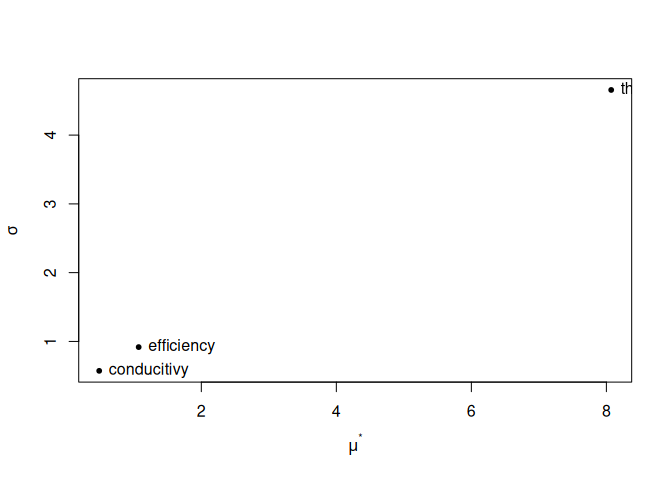
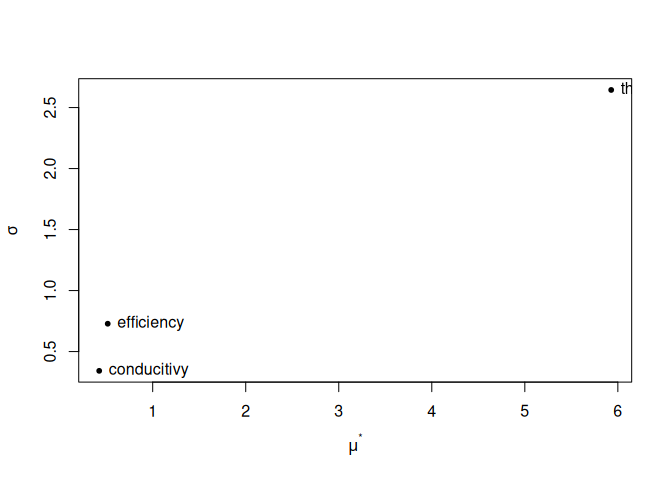
Fix `.names` order error in README.

diff --git a/README.md b/README.md
@@ -66,7 +66,7 @@ sen$param(
     ),
 
     # use `.names` to give names to each parameter
-    .names = c("thickness", "conducitivy", "efficiency"),
+    .names = c("efficiency", "thickness", "conducitivy"),
 
     # See `r` and `grid_jump` in `sensitivity::morris`
     .r = 8, .grid_jump = 1
@@ -102,38 +102,38 @@ sen$apply_measure(my_actions,
 #> EnergyPlus Path: `/usr/local/EnergyPlus-8-8-0`
 #> Applied Measure: `my_actions`
 #> Parametric Models [32]: 
-#> [01]: `1_effic(0.1)_thick(0.045)_condu(0.5)`
-#> [02]: `2_effic(0.325)_thick(0.045)_condu(0.5)`
-#> [03]: `3_effic(0.325)_thick(0.045)_condu(0.4)`
-#> [04]: `4_effic(0.325)_thick(0.0625)_condu(0.4)`
-#> [05]: `5_effic(1)_thick(0.0625)_condu(0.5)`
-#> [06]: `6_effic(1)_thick(0.045)_condu(0.5)`
-#> [07]: `7_effic(1)_thick(0.045)_condu(0.6)`
-#> [08]: `8_effic(0.775)_thick(0.045)_condu(0.6)`
-#> [09]: `9_effic(0.325)_thick(0.045)_condu(0.6)`
-#> [10]: `10_effic(0.55)_thick(0.045)_condu(0.6)`
-#> [11]: `11_effic(0.55)_thick(0.045)_condu(0.5)`
-#> [12]: `12_effic(0.55)_thick(0.0625)_condu(0.5)`
-#> [13]: `13_effic(0.325)_thick(0.01)_condu(0.2)`
-#> [14]: `14_effic(0.325)_thick(0.0275)_condu(0.2)`
-#> [15]: `15_effic(0.55)_thick(0.0275)_condu(0.2)`
-#> [16]: `16_effic(0.55)_thick(0.0275)_condu(0.1)`
-#> [17]: `17_effic(0.55)_thick(0.01)_condu(0.6)`
-#> [18]: `18_effic(0.55)_thick(0.0275)_condu(0.6)`
-#> [19]: `19_effic(0.325)_thick(0.0275)_condu(0.6)`
-#> [20]: `20_effic(0.325)_thick(0.0275)_condu(0.5)`
-#> [21]: `21_effic(0.1)_thick(0.08)_condu(0.2)`
-#> [22]: `22_effic(0.1)_thick(0.08)_condu(0.1)`
-#> [23]: `23_effic(0.1)_thick(0.0625)_condu(0.1)`
-#> [24]: `24_effic(0.325)_thick(0.0625)_condu(0.1)`
-#> [25]: `25_effic(0.1)_thick(0.01)_condu(0.4)`
-#> [26]: `26_effic(0.1)_thick(0.01)_condu(0.3)`
-#> [27]: `27_effic(0.1)_thick(0.0275)_condu(0.3)`
-#> [28]: `28_effic(0.325)_thick(0.0275)_condu(0.3)`
-#> [29]: `29_effic(0.1)_thick(0.0275)_condu(0.2)`
-#> [30]: `30_effic(0.1)_thick(0.045)_condu(0.2)`
-#> [31]: `31_effic(0.1)_thick(0.045)_condu(0.3)`
-#> [32]: `32_effic(0.325)_thick(0.045)_condu(0.3)`
+#> [01]: `1_effic(0.775)_thick(0.08)_condu(0.4)`
+#> [02]: `2_effic(0.55)_thick(0.08)_condu(0.4)`
+#> [03]: `3_effic(0.55)_thick(0.08)_condu(0.3)`
+#> [04]: `4_effic(0.55)_thick(0.0625)_condu(0.3)`
+#> [05]: `5_effic(0.55)_thick(0.0275)_condu(0.4)`
+#> [06]: `6_effic(0.775)_thick(0.0275)_condu(0.4)`
+#> [07]: `7_effic(0.775)_thick(0.045)_condu(0.4)`
+#> [08]: `8_effic(0.775)_thick(0.045)_condu(0.5)`
+#> [09]: `9_effic(0.1)_thick(0.0625)_condu(0.5)`
+#> [10]: `10_effic(0.1)_thick(0.045)_condu(0.5)`
+#> [11]: `11_effic(0.1)_thick(0.045)_condu(0.4)`
+#> [12]: `12_effic(0.325)_thick(0.045)_condu(0.4)`
+#> [13]: `13_effic(0.55)_thick(0.0275)_condu(0.3)`
+#> [14]: `14_effic(0.55)_thick(0.0275)_condu(0.2)`
+#> [15]: `15_effic(0.325)_thick(0.0275)_condu(0.2)`
+#> [16]: `16_effic(0.325)_thick(0.045)_condu(0.2)`
+#> [17]: `17_effic(0.325)_thick(0.045)_condu(0.3)`
+#> [18]: `18_effic(0.325)_thick(0.0625)_condu(0.3)`
+#> [19]: `19_effic(0.1)_thick(0.0625)_condu(0.3)`
+#> [20]: `20_effic(0.1)_thick(0.0625)_condu(0.2)`
+#> [21]: `21_effic(0.775)_thick(0.0275)_condu(0.1)`
+#> [22]: `22_effic(0.55)_thick(0.0275)_condu(0.1)`
+#> [23]: `23_effic(0.55)_thick(0.0275)_condu(0.2)`
+#> [24]: `24_effic(0.55)_thick(0.045)_condu(0.2)`
+#> [25]: `25_effic(0.775)_thick(0.08)_condu(0.5)`
+#> [26]: `26_effic(0.775)_thick(0.0625)_condu(0.5)`
+#> [27]: `27_effic(0.775)_thick(0.0625)_condu(0.6)`
+#> [28]: `28_effic(1)_thick(0.0625)_condu(0.6)`
+#> [29]: `29_effic(0.775)_thick(0.08)_condu(0.6)`
+#> [30]: `30_effic(0.775)_thick(0.0625)_condu(0.6)`
+#> [31]: `31_effic(0.55)_thick(0.0625)_condu(0.6)`
+#> [32]: `32_effic(0.55)_thick(0.0625)_condu(0.5)`
 #> << Job has not been run before >>
 ```
 
@@ -142,38 +142,38 @@ Get samples
 ``` r
 sen$samples()
 #>     case efficiency thickness conducitivy
-#>  1:    1      0.100    0.0450         0.5
-#>  2:    2      0.325    0.0450         0.5
-#>  3:    3      0.325    0.0450         0.4
-#>  4:    4      0.325    0.0625         0.4
-#>  5:    5      1.000    0.0625         0.5
-#>  6:    6      1.000    0.0450         0.5
-#>  7:    7      1.000    0.0450         0.6
-#>  8:    8      0.775    0.0450         0.6
-#>  9:    9      0.325    0.0450         0.6
-#> 10:   10      0.550    0.0450         0.6
-#> 11:   11      0.550    0.0450         0.5
-#> 12:   12      0.550    0.0625         0.5
-#> 13:   13      0.325    0.0100         0.2
-#> 14:   14      0.325    0.0275         0.2
-#> 15:   15      0.550    0.0275         0.2
-#> 16:   16      0.550    0.0275         0.1
-#> 17:   17      0.550    0.0100         0.6
-#> 18:   18      0.550    0.0275         0.6
-#> 19:   19      0.325    0.0275         0.6
-#> 20:   20      0.325    0.0275         0.5
-#> 21:   21      0.100    0.0800         0.2
-#> 22:   22      0.100    0.0800         0.1
-#> 23:   23      0.100    0.0625         0.1
-#> 24:   24      0.325    0.0625         0.1
-#> 25:   25      0.100    0.0100         0.4
-#> 26:   26      0.100    0.0100         0.3
-#> 27:   27      0.100    0.0275         0.3
-#> 28:   28      0.325    0.0275         0.3
-#> 29:   29      0.100    0.0275         0.2
-#> 30:   30      0.100    0.0450         0.2
-#> 31:   31      0.100    0.0450         0.3
-#> 32:   32      0.325    0.0450         0.3
+#>  1:    1      0.775    0.0800         0.4
+#>  2:    2      0.550    0.0800         0.4
+#>  3:    3      0.550    0.0800         0.3
+#>  4:    4      0.550    0.0625         0.3
+#>  5:    5      0.550    0.0275         0.4
+#>  6:    6      0.775    0.0275         0.4
+#>  7:    7      0.775    0.0450         0.4
+#>  8:    8      0.775    0.0450         0.5
+#>  9:    9      0.100    0.0625         0.5
+#> 10:   10      0.100    0.0450         0.5
+#> 11:   11      0.100    0.0450         0.4
+#> 12:   12      0.325    0.0450         0.4
+#> 13:   13      0.550    0.0275         0.3
+#> 14:   14      0.550    0.0275         0.2
+#> 15:   15      0.325    0.0275         0.2
+#> 16:   16      0.325    0.0450         0.2
+#> 17:   17      0.325    0.0450         0.3
+#> 18:   18      0.325    0.0625         0.3
+#> 19:   19      0.100    0.0625         0.3
+#> 20:   20      0.100    0.0625         0.2
+#> 21:   21      0.775    0.0275         0.1
+#> 22:   22      0.550    0.0275         0.1
+#> 23:   23      0.550    0.0275         0.2
+#> 24:   24      0.550    0.0450         0.2
+#> 25:   25      0.775    0.0800         0.5
+#> 26:   26      0.775    0.0625         0.5
+#> 27:   27      0.775    0.0625         0.6
+#> 28:   28      1.000    0.0625         0.6
+#> 29:   29      0.775    0.0800         0.6
+#> 30:   30      0.775    0.0625         0.6
+#> 31:   31      0.550    0.0625         0.6
+#> 32:   32      0.550    0.0625         0.5
 #>     case efficiency thickness conducitivy
 ```
 
@@ -182,63 +182,65 @@ Run simulations and calculate statistic indicators
 ``` r
 # run simulations in temporary directory
 sen$run(dir = tempdir())
-#> 01|RUNNING    --> [IDF]`1_effic(0.1)_thick(0.045)_condu(0.5).idf` + [E...
-#> 02|RUNNING    --> [IDF]`2_effic(0.325)_thick(0.045)_condu(0.5).idf` + ...
-#> 03|RUNNING    --> [IDF]`3_effic(0.325)_thick(0.045)_condu(0.4).idf` + ...
-#> 04|RUNNING    --> [IDF]`4_effic(0.325)_thick(0.0625)_condu(0.4).idf` +...
-#> 05|RUNNING    --> [IDF]`5_effic(1)_thick(0.0625)_condu(0.5).idf` + [EP...
-#> 06|RUNNING    --> [IDF]`6_effic(1)_thick(0.045)_condu(0.5).idf` + [EPW...
-#> 07|RUNNING    --> [IDF]`7_effic(1)_thick(0.045)_condu(0.6).idf` + [EPW...
-#> 08|RUNNING    --> [IDF]`8_effic(0.775)_thick(0.045)_condu(0.6).idf` + ...
-#> 01|COMPLETED  --> [IDF]`1_effic(0.1)_thick(0.045)_condu(0.5).idf` + [E...
-#> 09|RUNNING    --> [IDF]`9_effic(0.325)_thick(0.045)_condu(0.6).idf` + ...
-#> 02|COMPLETED  --> [IDF]`2_effic(0.325)_thick(0.045)_condu(0.5).idf` + ...
-#> 10|RUNNING    --> [IDF]`10_effic(0.55)_thick(0.045)_condu(0.6).idf` + ...
-#> 03|COMPLETED  --> [IDF]`3_effic(0.325)_thick(0.045)_condu(0.4).idf` + ...
-#> 11|RUNNING    --> [IDF]`11_effic(0.55)_thick(0.045)_condu(0.5).idf` + ...
-#> 12|RUNNING    --> [IDF]`12_effic(0.55)_thick(0.0625)_condu(0.5).idf` +...
-#> 06|COMPLETED  --> [IDF]`6_effic(1)_thick(0.045)_condu(0.5).idf` + [EPW...
-#> 13|RUNNING    --> [IDF]`13_effic(0.325)_thick(0.01)_condu(0.2).idf` + ...
-#> 07|COMPLETED  --> [IDF]`7_effic(1)_thick(0.045)_condu(0.6).idf` + [EPW...
-#> 14|RUNNING    --> [IDF]`14_effic(0.325)_thick(0.0275)_condu(0.2).idf` ...
-#> 08|COMPLETED  --> [IDF]`8_effic(0.775)_thick(0.045)_condu(0.6).idf` + ...
-#> 15|RUNNING    --> [IDF]`15_effic(0.55)_thick(0.0275)_condu(0.2).idf` +...
-#> 16|RUNNING    --> [IDF]`16_effic(0.55)_thick(0.0275)_condu(0.1).idf` +...
-#> 09|COMPLETED  --> [IDF]`9_effic(0.325)_thick(0.045)_condu(0.6).idf` + ...
-#> 17|RUNNING    --> [IDF]`17_effic(0.55)_thick(0.01)_condu(0.6).idf` + [...
-#> 10|COMPLETED  --> [IDF]`10_effic(0.55)_thick(0.045)_condu(0.6).idf` + ...
-#> 18|RUNNING    --> [IDF]`18_effic(0.55)_thick(0.0275)_condu(0.6).idf` +...
-#> 11|COMPLETED  --> [IDF]`11_effic(0.55)_thick(0.045)_condu(0.5).idf` + ...
-#> 19|RUNNING    --> [IDF]`19_effic(0.325)_thick(0.0275)_condu(0.6).idf` ...
-#> 20|RUNNING    --> [IDF]`20_effic(0.325)_thick(0.0275)_condu(0.5).idf` ...
-#> 14|COMPLETED  --> [IDF]`14_effic(0.325)_thick(0.0275)_condu(0.2).idf` ...
-#> 21|RUNNING    --> [IDF]`21_effic(0.1)_thick(0.08)_condu(0.2).idf` + [E...
-#> 13|COMPLETED  --> [IDF]`13_effic(0.325)_thick(0.01)_condu(0.2).idf` + ...
-#> 22|RUNNING    --> [IDF]`22_effic(0.1)_thick(0.08)_condu(0.1).idf` + [E...
-#> 16|COMPLETED  --> [IDF]`16_effic(0.55)_thick(0.0275)_condu(0.1).idf` +...
-#> 23|RUNNING    --> [IDF]`23_effic(0.1)_thick(0.0625)_condu(0.1).idf` + ...
-#> 24|RUNNING    --> [IDF]`24_effic(0.325)_thick(0.0625)_condu(0.1).idf` ...
-#> 17|COMPLETED  --> [IDF]`17_effic(0.55)_thick(0.01)_condu(0.6).idf` + [...
-#> 25|RUNNING    --> [IDF]`25_effic(0.1)_thick(0.01)_condu(0.4).idf` + [E...
-#> 18|COMPLETED  --> [IDF]`18_effic(0.55)_thick(0.0275)_condu(0.6).idf` +...
-#> 26|RUNNING    --> [IDF]`26_effic(0.1)_thick(0.01)_condu(0.3).idf` + [E...
-#> 20|COMPLETED  --> [IDF]`20_effic(0.325)_thick(0.0275)_condu(0.5).idf` ...
-#> 27|RUNNING    --> [IDF]`27_effic(0.1)_thick(0.0275)_condu(0.3).idf` + ...
-#> 28|RUNNING    --> [IDF]`28_effic(0.325)_thick(0.0275)_condu(0.3).idf` ...
-#> 22|COMPLETED  --> [IDF]`22_effic(0.1)_thick(0.08)_condu(0.1).idf` + [E...
-#> 29|RUNNING    --> [IDF]`29_effic(0.1)_thick(0.0275)_condu(0.2).idf` + ...
-#> 23|COMPLETED  --> [IDF]`23_effic(0.1)_thick(0.0625)_condu(0.1).idf` + ...
-#> 30|RUNNING    --> [IDF]`30_effic(0.1)_thick(0.045)_condu(0.2).idf` + [...
-#> 24|COMPLETED  --> [IDF]`24_effic(0.325)_thick(0.0625)_condu(0.1).idf` ...
-#> 31|RUNNING    --> [IDF]`31_effic(0.1)_thick(0.045)_condu(0.3).idf` + [...
-#> 32|RUNNING    --> [IDF]`32_effic(0.325)_thick(0.045)_condu(0.3).idf` +...
-#> 25|COMPLETED  --> [IDF]`25_effic(0.1)_thick(0.01)_condu(0.4).idf` + [E...
-#> 26|COMPLETED  --> [IDF]`26_effic(0.1)_thick(0.01)_condu(0.3).idf` + [E...
-#> 28|COMPLETED  --> [IDF]`28_effic(0.325)_thick(0.0275)_condu(0.3).idf` ...
-#> 29|COMPLETED  --> [IDF]`29_effic(0.1)_thick(0.0275)_condu(0.2).idf` + ...
-#> 30|COMPLETED  --> [IDF]`30_effic(0.1)_thick(0.045)_condu(0.2).idf` + [...
-#> 31|COMPLETED  --> [IDF]`31_effic(0.1)_thick(0.045)_condu(0.3).idf` + [...
-#> 32|COMPLETED  --> [IDF]`32_effic(0.325)_thick(0.045)_condu(0.3).idf` +...
+#> 01|RUNNING    --> [IDF]`1_effic(0.775)_thick(0.08)_condu(0.4).idf` + [...
+#> 02|RUNNING    --> [IDF]`2_effic(0.55)_thick(0.08)_condu(0.4).idf` + [E...
+#> 03|RUNNING    --> [IDF]`3_effic(0.55)_thick(0.08)_condu(0.3).idf` + [E...
+#> 04|RUNNING    --> [IDF]`4_effic(0.55)_thick(0.0625)_condu(0.3).idf` + ...
+#> 05|RUNNING    --> [IDF]`5_effic(0.55)_thick(0.0275)_condu(0.4).idf` + ...
+#> 06|RUNNING    --> [IDF]`6_effic(0.775)_thick(0.0275)_condu(0.4).idf` +...
+#> 07|RUNNING    --> [IDF]`7_effic(0.775)_thick(0.045)_condu(0.4).idf` + ...
+#> 08|RUNNING    --> [IDF]`8_effic(0.775)_thick(0.045)_condu(0.5).idf` + ...
+#> 01|COMPLETED  --> [IDF]`1_effic(0.775)_thick(0.08)_condu(0.4).idf` + [...
+#> 09|RUNNING    --> [IDF]`9_effic(0.1)_thick(0.0625)_condu(0.5).idf` + [...
+#> 02|COMPLETED  --> [IDF]`2_effic(0.55)_thick(0.08)_condu(0.4).idf` + [E...
+#> 10|RUNNING    --> [IDF]`10_effic(0.1)_thick(0.045)_condu(0.5).idf` + [...
+#> 03|COMPLETED  --> [IDF]`3_effic(0.55)_thick(0.08)_condu(0.3).idf` + [E...
+#> 11|RUNNING    --> [IDF]`11_effic(0.1)_thick(0.045)_condu(0.4).idf` + [...
+#> 06|COMPLETED  --> [IDF]`6_effic(0.775)_thick(0.0275)_condu(0.4).idf` +...
+#> 12|RUNNING    --> [IDF]`12_effic(0.325)_thick(0.045)_condu(0.4).idf` +...
+#> 07|COMPLETED  --> [IDF]`7_effic(0.775)_thick(0.045)_condu(0.4).idf` + ...
+#> 13|RUNNING    --> [IDF]`13_effic(0.55)_thick(0.0275)_condu(0.3).idf` +...
+#> 14|RUNNING    --> [IDF]`14_effic(0.55)_thick(0.0275)_condu(0.2).idf` +...
+#> 08|COMPLETED  --> [IDF]`8_effic(0.775)_thick(0.045)_condu(0.5).idf` + ...
+#> 15|RUNNING    --> [IDF]`15_effic(0.325)_thick(0.0275)_condu(0.2).idf` ...
+#> 16|RUNNING    --> [IDF]`16_effic(0.325)_thick(0.045)_condu(0.2).idf` +...
+#> 09|COMPLETED  --> [IDF]`9_effic(0.1)_thick(0.0625)_condu(0.5).idf` + [...
+#> 17|RUNNING    --> [IDF]`17_effic(0.325)_thick(0.045)_condu(0.3).idf` +...
+#> 10|COMPLETED  --> [IDF]`10_effic(0.1)_thick(0.045)_condu(0.5).idf` + [...
+#> 18|RUNNING    --> [IDF]`18_effic(0.325)_thick(0.0625)_condu(0.3).idf` ...
+#> 12|COMPLETED  --> [IDF]`12_effic(0.325)_thick(0.045)_condu(0.4).idf` +...
+#> 19|RUNNING    --> [IDF]`19_effic(0.1)_thick(0.0625)_condu(0.3).idf` + ...
+#> 20|RUNNING    --> [IDF]`20_effic(0.1)_thick(0.0625)_condu(0.2).idf` + ...
+#> 13|COMPLETED  --> [IDF]`13_effic(0.55)_thick(0.0275)_condu(0.3).idf` +...
+#> 21|RUNNING    --> [IDF]`21_effic(0.775)_thick(0.0275)_condu(0.1).idf` ...
+#> 15|COMPLETED  --> [IDF]`15_effic(0.325)_thick(0.0275)_condu(0.2).idf` ...
+#> 22|RUNNING    --> [IDF]`22_effic(0.55)_thick(0.0275)_condu(0.1).idf` +...
+#> 16|COMPLETED  --> [IDF]`16_effic(0.325)_thick(0.045)_condu(0.2).idf` +...
+#> 23|RUNNING    --> [IDF]`23_effic(0.55)_thick(0.0275)_condu(0.2).idf` +...
+#> 24|RUNNING    --> [IDF]`24_effic(0.55)_thick(0.045)_condu(0.2).idf` + ...
+#> 17|COMPLETED  --> [IDF]`17_effic(0.325)_thick(0.045)_condu(0.3).idf` +...
+#> 25|RUNNING    --> [IDF]`25_effic(0.775)_thick(0.08)_condu(0.5).idf` + ...
+#> 18|COMPLETED  --> [IDF]`18_effic(0.325)_thick(0.0625)_condu(0.3).idf` ...
+#> 26|RUNNING    --> [IDF]`26_effic(0.775)_thick(0.0625)_condu(0.5).idf` ...
+#> 19|COMPLETED  --> [IDF]`19_effic(0.1)_thick(0.0625)_condu(0.3).idf` + ...
+#> 27|RUNNING    --> [IDF]`27_effic(0.775)_thick(0.0625)_condu(0.6).idf` ...
+#> 20|COMPLETED  --> [IDF]`20_effic(0.1)_thick(0.0625)_condu(0.2).idf` + ...
+#> 28|RUNNING    --> [IDF]`28_effic(1)_thick(0.0625)_condu(0.6).idf` + [E...
+#> 22|COMPLETED  --> [IDF]`22_effic(0.55)_thick(0.0275)_condu(0.1).idf` +...
+#> 29|RUNNING    --> [IDF]`29_effic(0.775)_thick(0.08)_condu(0.6).idf` + ...
+#> 23|COMPLETED  --> [IDF]`23_effic(0.55)_thick(0.0275)_condu(0.2).idf` +...
+#> 30|RUNNING    --> [IDF]`30_effic(0.775)_thick(0.0625)_condu(0.6).idf` ...
+#> 24|COMPLETED  --> [IDF]`24_effic(0.55)_thick(0.045)_condu(0.2).idf` + ...
+#> 31|RUNNING    --> [IDF]`31_effic(0.55)_thick(0.0625)_condu(0.6).idf` +...
+#> 25|COMPLETED  --> [IDF]`25_effic(0.775)_thick(0.08)_condu(0.5).idf` + ...
+#> 32|RUNNING    --> [IDF]`32_effic(0.55)_thick(0.0625)_condu(0.5).idf` +...
+#> 26|COMPLETED  --> [IDF]`26_effic(0.775)_thick(0.0625)_condu(0.5).idf` ...
+#> 27|COMPLETED  --> [IDF]`27_effic(0.775)_thick(0.0625)_condu(0.6).idf` ...
+#> 28|COMPLETED  --> [IDF]`28_effic(1)_thick(0.0625)_condu(0.6).idf` + [E...
+#> 29|COMPLETED  --> [IDF]`29_effic(0.775)_thick(0.08)_condu(0.6).idf` + ...
+#> 30|COMPLETED  --> [IDF]`30_effic(0.775)_thick(0.0625)_condu(0.6).idf` ...
+#> 31|COMPLETED  --> [IDF]`31_effic(0.55)_thick(0.0625)_condu(0.6).idf` +...
+#> 32|COMPLETED  --> [IDF]`32_effic(0.55)_thick(0.0625)_condu(0.5).idf` +...
 #> ── EnergPlus Parametric Job ───────────────────────────────────────────────
 #> Seed Model: `/usr/local/EnergyPlus-8-8-0/ExampleFiles/5Zone_Transforme...
 #> Weather: `/usr/local/EnergyPlus-8-8-0/WeatherData/USA_CA_San.Francisco...
@@ -246,39 +248,39 @@ sen$run(dir = tempdir())
 #> EnergyPlus Path: `/usr/local/EnergyPlus-8-8-0`
 #> Applied Measure: `my_actions`
 #> Parametric Models [32]: 
-#> [01]: `1_effic(0.1)_thick(0.045)_condu(0.5)`     <-- SUCCEEDED
-#> [02]: `2_effic(0.325)_thick(0.045)_condu(0.5)`   <-- SUCCEEDED
-#> [03]: `3_effic(0.325)_thick(0.045)_condu(0.4)`   <-- SUCCEEDED
-#> [04]: `4_effic(0.325)_thick(0.0625)_condu(0.4)`  <-- SUCCEEDED
-#> [05]: `5_effic(1)_thick(0.0625)_condu(0.5)`      <-- SUCCEEDED
-#> [06]: `6_effic(1)_thick(0.045)_condu(0.5)`       <-- SUCCEEDED
-#> [07]: `7_effic(1)_thick(0.045)_condu(0.6)`       <-- SUCCEEDED
-#> [08]: `8_effic(0.775)_thick(0.045)_condu(0.6)`   <-- SUCCEEDED
-#> [09]: `9_effic(0.325)_thick(0.045)_condu(0.6)`   <-- SUCCEEDED
-#> [10]: `10_effic(0.55)_thick(0.045)_condu(0.6)`   <-- SUCCEEDED
-#> [11]: `11_effic(0.55)_thick(0.045)_condu(0.5)`   <-- SUCCEEDED
-#> [12]: `12_effic(0.55)_thick(0.0625)_condu(0.5)`  <-- SUCCEEDED
-#> [13]: `13_effic(0.325)_thick(0.01)_condu(0.2)`   <-- SUCCEEDED
-#> [14]: `14_effic(0.325)_thick(0.0275)_condu(0.2)` <-- SUCCEEDED
-#> [15]: `15_effic(0.55)_thick(0.0275)_condu(0.2)`  <-- SUCCEEDED
-#> [16]: `16_effic(0.55)_thick(0.0275)_condu(0.1)`  <-- SUCCEEDED
-#> [17]: `17_effic(0.55)_thick(0.01)_condu(0.6)`    <-- SUCCEEDED
-#> [18]: `18_effic(0.55)_thick(0.0275)_condu(0.6)`  <-- SUCCEEDED
-#> [19]: `19_effic(0.325)_thick(0.0275)_condu(0.6)` <-- SUCCEEDED
-#> [20]: `20_effic(0.325)_thick(0.0275)_condu(0.5)` <-- SUCCEEDED
-#> [21]: `21_effic(0.1)_thick(0.08)_condu(0.2)`     <-- SUCCEEDED
-#> [22]: `22_effic(0.1)_thick(0.08)_condu(0.1)`     <-- SUCCEEDED
-#> [23]: `23_effic(0.1)_thick(0.0625)_condu(0.1)`   <-- SUCCEEDED
-#> [24]: `24_effic(0.325)_thick(0.0625)_condu(0.1)` <-- SUCCEEDED
-#> [25]: `25_effic(0.1)_thick(0.01)_condu(0.4)`     <-- SUCCEEDED
-#> [26]: `26_effic(0.1)_thick(0.01)_condu(0.3)`     <-- SUCCEEDED
-#> [27]: `27_effic(0.1)_thick(0.0275)_condu(0.3)`   <-- SUCCEEDED
-#> [28]: `28_effic(0.325)_thick(0.0275)_condu(0.3)` <-- SUCCEEDED
-#> [29]: `29_effic(0.1)_thick(0.0275)_condu(0.2)`   <-- SUCCEEDED
-#> [30]: `30_effic(0.1)_thick(0.045)_condu(0.2)`    <-- SUCCEEDED
-#> [31]: `31_effic(0.1)_thick(0.045)_condu(0.3)`    <-- SUCCEEDED
-#> [32]: `32_effic(0.325)_thick(0.045)_condu(0.3)`  <-- SUCCEEDED
-#>  Simulation started at `2019-08-28 02:18:46` and completed successfully after 13.36 secs.
+#> [01]: `1_effic(0.775)_thick(0.08)_condu(0.4)`    <-- SUCCEEDED
+#> [02]: `2_effic(0.55)_thick(0.08)_condu(0.4)`     <-- SUCCEEDED
+#> [03]: `3_effic(0.55)_thick(0.08)_condu(0.3)`     <-- SUCCEEDED
+#> [04]: `4_effic(0.55)_thick(0.0625)_condu(0.3)`   <-- SUCCEEDED
+#> [05]: `5_effic(0.55)_thick(0.0275)_condu(0.4)`   <-- SUCCEEDED
+#> [06]: `6_effic(0.775)_thick(0.0275)_condu(0.4)`  <-- SUCCEEDED
+#> [07]: `7_effic(0.775)_thick(0.045)_condu(0.4)`   <-- SUCCEEDED
+#> [08]: `8_effic(0.775)_thick(0.045)_condu(0.5)`   <-- SUCCEEDED
+#> [09]: `9_effic(0.1)_thick(0.0625)_condu(0.5)`    <-- SUCCEEDED
+#> [10]: `10_effic(0.1)_thick(0.045)_condu(0.5)`    <-- SUCCEEDED
+#> [11]: `11_effic(0.1)_thick(0.045)_condu(0.4)`    <-- SUCCEEDED
+#> [12]: `12_effic(0.325)_thick(0.045)_condu(0.4)`  <-- SUCCEEDED
+#> [13]: `13_effic(0.55)_thick(0.0275)_condu(0.3)`  <-- SUCCEEDED
+#> [14]: `14_effic(0.55)_thick(0.0275)_condu(0.2)`  <-- SUCCEEDED
+#> [15]: `15_effic(0.325)_thick(0.0275)_condu(0.2)` <-- SUCCEEDED
+#> [16]: `16_effic(0.325)_thick(0.045)_condu(0.2)`  <-- SUCCEEDED
+#> [17]: `17_effic(0.325)_thick(0.045)_condu(0.3)`  <-- SUCCEEDED
+#> [18]: `18_effic(0.325)_thick(0.0625)_condu(0.3)` <-- SUCCEEDED
+#> [19]: `19_effic(0.1)_thick(0.0625)_condu(0.3)`   <-- SUCCEEDED
+#> [20]: `20_effic(0.1)_thick(0.0625)_condu(0.2)`   <-- SUCCEEDED
+#> [21]: `21_effic(0.775)_thick(0.0275)_condu(0.1)` <-- SUCCEEDED
+#> [22]: `22_effic(0.55)_thick(0.0275)_condu(0.1)`  <-- SUCCEEDED
+#> [23]: `23_effic(0.55)_thick(0.0275)_condu(0.2)`  <-- SUCCEEDED
+#> [24]: `24_effic(0.55)_thick(0.045)_condu(0.2)`   <-- SUCCEEDED
+#> [25]: `25_effic(0.775)_thick(0.08)_condu(0.5)`   <-- SUCCEEDED
+#> [26]: `26_effic(0.775)_thick(0.0625)_condu(0.5)` <-- SUCCEEDED
+#> [27]: `27_effic(0.775)_thick(0.0625)_condu(0.6)` <-- SUCCEEDED
+#> [28]: `28_effic(1)_thick(0.0625)_condu(0.6)`     <-- SUCCEEDED
+#> [29]: `29_effic(0.775)_thick(0.08)_condu(0.6)`   <-- SUCCEEDED
+#> [30]: `30_effic(0.775)_thick(0.0625)_condu(0.6)` <-- SUCCEEDED
+#> [31]: `31_effic(0.55)_thick(0.0625)_condu(0.6)`  <-- SUCCEEDED
+#> [32]: `32_effic(0.55)_thick(0.0625)_condu(0.5)`  <-- SUCCEEDED
+#>  Simulation started at `2019-08-28 02:36:24` and completed successfully after 12.02 secs.
 
 # extract output
 # here is just am example
@@ -293,17 +295,17 @@ eng <- sen$tabular_data(table_name = "site and source energy",
 #> sensitivity::morris(model = NULL, factors = fctr, r = .r, design = list(type = "oat",     levels = par$num$meta$levels, grid.jump = .grid_jump), binf = par$num$meta$min,     bsup = par$num$meta$max, scale = FALSE)
 #> 
 #> Model runs: 32 
-#>                    mu  mu.star     sigma
-#> efficiency  -1.072222 1.072222 0.9171499
-#> thickness   -7.928571 8.071429 4.6567297
-#> conducitivy  0.212500 0.487500 0.5718079
+#>                     mu   mu.star     sigma
+#> efficiency  -0.5166667 0.5166667 0.7283380
+#> thickness   -5.9285714 5.9285714 2.6440979
+#> conducitivy  0.3500000 0.4250000 0.3422614
 
 # extract data
 attr(result, "data")
-#>    index        name        mu  mu.star     sigma
-#> 1:     1  efficiency -1.072222 1.072222 0.9171499
-#> 2:     2   thickness -7.928571 8.071429 4.6567297
-#> 3:     3 conducitivy  0.212500 0.487500 0.5718079
+#>    index        name         mu   mu.star     sigma
+#> 1:     1  efficiency -0.5166667 0.5166667 0.7283380
+#> 2:     2   thickness -5.9285714 5.9285714 2.6440979
+#> 3:     3 conducitivy  0.3500000 0.4250000 0.3422614
 ```
 
 Plot
